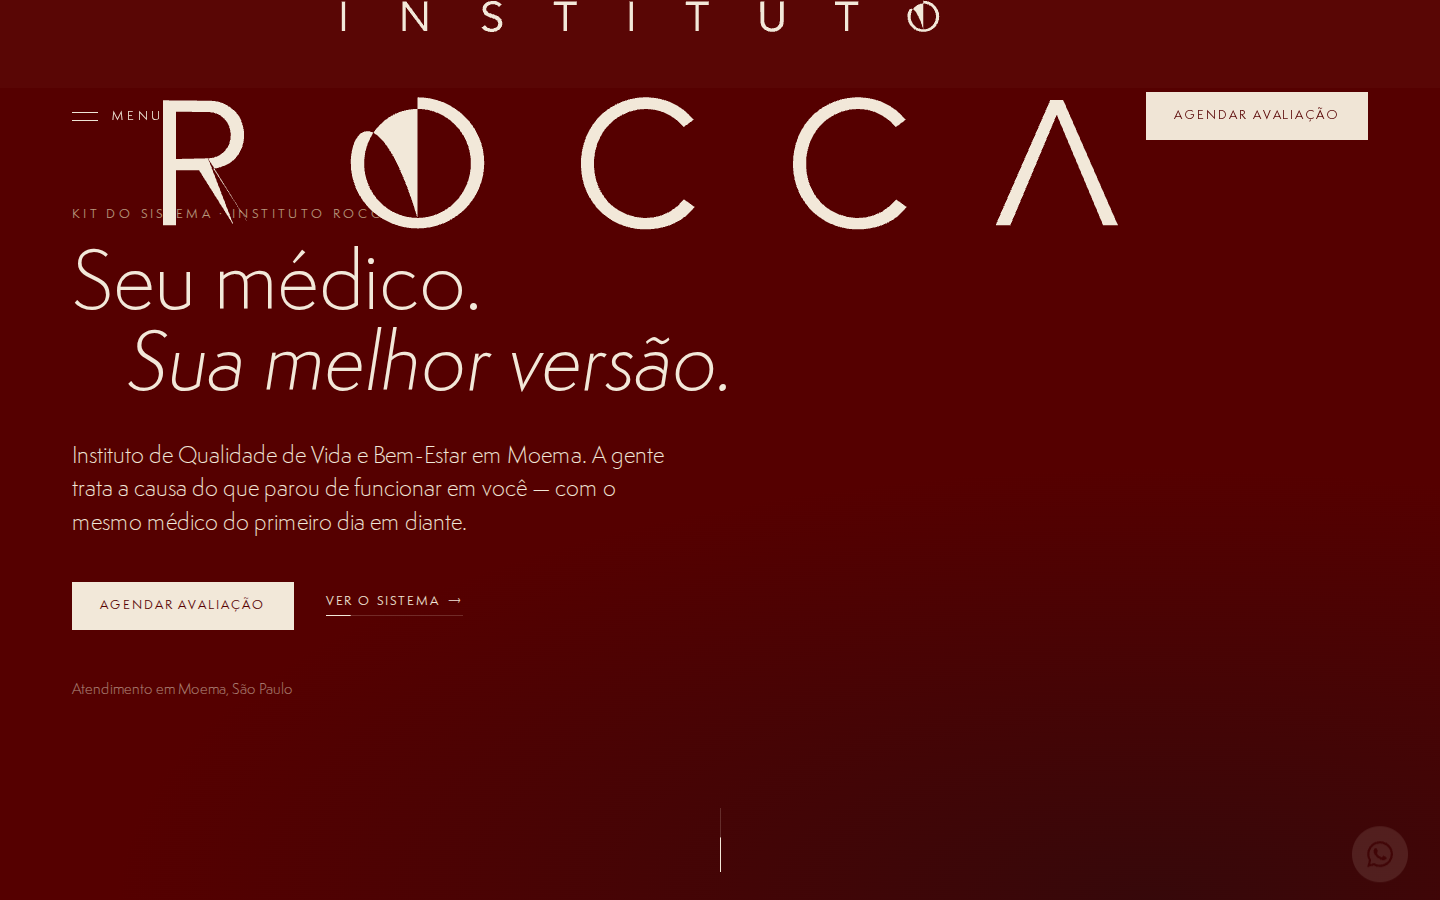
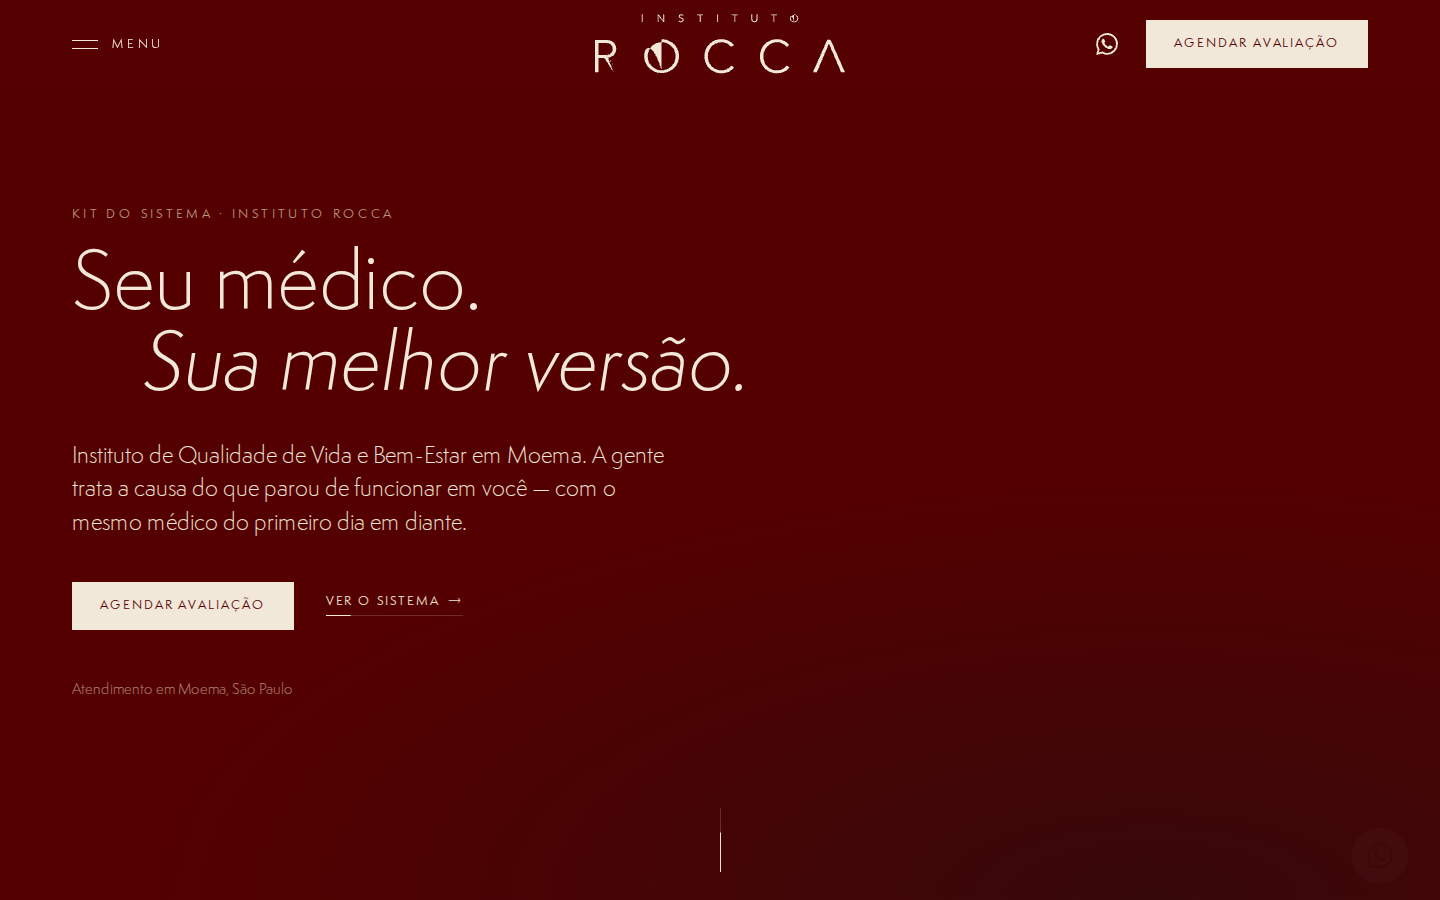
Fundação: nav com símbolo/wordmark consolidada, tokens com o estado da identidade oficial, kit alinhado
Claude-Session: https://claude.ai/code/session_01XdjUTf4CqwpAGPvLobMa3V

diff --git a/concepts/00-kit/index.html b/concepts/00-kit/index.html
@@ -9,7 +9,8 @@
   <link rel="stylesheet" href="../../brand/tokens.css">
   <link rel="stylesheet" href="../../shared/base.css">
   <link rel="stylesheet" href="./concept.css">
-  <link rel="icon" href="../../assets/img/monograma.svg" type="image/svg+xml">
+  <link rel="icon" href="../../assets/img/favicon.svg" type="image/svg+xml">
+  <meta name="theme-color" content="#550000">
   <script src="./app.js" defer></script>
 </head>
 <body class="sup-bordo">
@@ -30,7 +31,8 @@
     </button>
 
     <a class="nav__marca" href="#" aria-label="Instituto Rocca — início">
-        <img class="nav__simbolo" src="../../assets/img/simbolo.svg" alt="" width="28" height="28" aria-hidden="true">
+      <img class="nav__simbolo" src="../../assets/img/simbolo.svg" alt="" width="666" height="666" aria-hidden="true">
+      <img class="nav__simbolo nav__simbolo--escuro" src="../../assets/img/simbolo-bordo.svg" alt="" width="666" height="666" aria-hidden="true">
       <img class="nav__logo nav__logo--creme" src="../../assets/img/logo.svg" alt="Instituto Rocca" width="1686" height="410">
       <img class="nav__logo nav__logo--escuro" src="../../assets/img/logo-escuro.svg" alt="" aria-hidden="true" width="1686" height="410">
     </a>
@@ -112,19 +114,18 @@
         <header class="kit-cabeca" data-reveal>
           <p class="eyebrow"><span class="numeral">01</span> — Paleta</p>
           <h2 class="titulo-2l">Bordô sustenta. <span class="linha-2">A madeira entra pela imagem.</span></h2>
-          <p>Superfícies: <code class="kit-classe">.sup-bordo</code> <code class="kit-classe">.sup-osso</code> <code class="kit-classe">.sup-profundo</code>. Nem preto puro nem branco puro.</p>
+          <p>Paleta oficial do manual (Rocca 01–04) mais as cores de apoio. Superfícies: <code class="kit-classe">.sup-bordo</code> <code class="kit-classe">.sup-osso</code> <code class="kit-classe">.sup-profundo</code>. Nem preto puro nem branco puro.</p>
         </header>
         <ul class="kit-amostras" data-reveal-grupo>
-          <li class="amostra"><span class="amostra__cor" style="background:#550000"></span><span class="amostra__nome">--cor-bordo</span><span class="amostra__valor">#550000 · principal, hero, âncoras</span></li>
+          <li class="amostra"><span class="amostra__cor" style="background:#550000"></span><span class="amostra__nome">--cor-bordo</span><span class="amostra__valor">#550000 · Rocca 01 · principal, hero, âncoras</span></li>
           <li class="amostra"><span class="amostra__cor" style="background:#3B0000"></span><span class="amostra__nome">--cor-bordo-profundo</span><span class="amostra__valor">#3B0000 · footer, gradientes</span></li>
           <li class="amostra"><span class="amostra__cor" style="background:#6B1F1E"></span><span class="amostra__nome">--cor-bordo-claro</span><span class="amostra__valor">#6B1F1E · hover, linhas sobre bordô</span></li>
           <li class="amostra"><span class="amostra__cor amostra__cor--borda" style="background:#F2E8D9"></span><span class="amostra__nome">--cor-creme</span><span class="amostra__valor">#F2E8D9 · texto sobre bordô, logo</span></li>
           <li class="amostra"><span class="amostra__cor amostra__cor--borda" style="background:#EFE7DA"></span><span class="amostra__nome">--cor-osso</span><span class="amostra__valor">#EFE7DA · fundo das seções de respiro</span></li>
           <li class="amostra"><span class="amostra__cor" style="background:#2A1A16"></span><span class="amostra__nome">--cor-tinta</span><span class="amostra__valor">#2A1A16 · texto sobre osso</span></li>
-          <li class="amostra"><span class="amostra__cor" style="background:#B8997D"></span><span class="amostra__nome">--cor-madeira</span><span class="amostra__valor">#B8997D · numerais, rótulos, linhas</span></li>
-          <li class="amostra"><span class="amostra__cor" style="background:#4A3B26"></span><span class="amostra__nome">--cor-marmore</span><span class="amostra__valor">#4A3B26 · bordas sobre osso</span></li>
-          <li class="amostra"><span class="amostra__cor" style="background:#544D45"></span><span class="amostra__nome">--cor-grafite</span><span class="amostra__valor">#544D45 · texto secundário sobre osso</span></li>
-          <li class="amostra"><span class="amostra__cor" style="background:#4A3B26"></span><span class="amostra__nome">--cor-oliva</span><span class="amostra__valor">#4A3B26 · acento alternativo, tags</span></li>
+          <li class="amostra"><span class="amostra__cor" style="background:#B8997D"></span><span class="amostra__nome">--cor-areia (--cor-madeira)</span><span class="amostra__valor">#B8997D · Rocca 02 · numerais, rótulos, linhas</span></li>
+          <li class="amostra"><span class="amostra__cor" style="background:#4A3B26"></span><span class="amostra__nome">--cor-oliva-escuro (--cor-marmore)</span><span class="amostra__valor">#4A3B26 · Rocca 03 · bordas sobre osso, tags</span></li>
+          <li class="amostra"><span class="amostra__cor" style="background:#544D45"></span><span class="amostra__nome">--cor-cinza-quente (--cor-grafite)</span><span class="amostra__valor">#544D45 · Rocca 04 · texto secundário sobre osso</span></li>
           <li class="amostra"><span class="amostra__cor" style="background:rgba(242,232,217,.6);background-image:linear-gradient(rgba(242,232,217,.6),rgba(242,232,217,.6));background-color:#550000"></span><span class="amostra__nome">--cor-creme-60</span><span class="amostra__valor">creme 60% · secundário sobre bordô (≥ 16px)</span></li>
           <li class="amostra"><span class="amostra__cor" style="background:#25D366"></span><span class="amostra__nome">--cor-whatsapp</span><span class="amostra__valor">#25D366 · só no hover do flutuante</span></li>
         </ul>
@@ -137,12 +138,12 @@
         <header class="kit-cabeca" data-reveal>
           <p class="eyebrow"><span class="numeral">02</span> — Tipografia</p>
           <h2 class="titulo-2l">Uma fonte, peso leve, <span class="linha-2">sem serifa em lugar nenhum.</span></h2>
-          <p>Jost como substituta da Semplicita Pro. Um único token <code class="kit-classe">--fonte</code> troca tudo.</p>
+          <p>Semplicita Pro, a tipografia oficial, auto-hospedada em brand/fontes/ (300, 400, 500, 600 e itálicas). Um único token <code class="kit-classe">--fonte</code> troca tudo.</p>
         </header>
 
         <div class="kit-especime" data-reveal-grupo>
           <div class="kit-especime__linha">
-            <span class="kit-rotulo">H1 · 200/300 · <code class="kit-classe">h1.titulo-2l</code></span>
+            <span class="kit-rotulo">H1 · 300 · <code class="kit-classe">h1.titulo-2l</code></span>
             <p class="h1 titulo-2l">Seu médico. <span class="linha-2">Sua melhor versão.</span></p>
           </div>
           <div class="kit-especime__linha">

diff --git a/brand/tokens.css b/brand/tokens.css
@@ -4,27 +4,30 @@
    Fonte de verdade das cores, da fonte, da escala tipográfica, dos espaços,
    dos easings e das camadas (z-index). Todo CSS dos conceitos lê daqui.
 
-   COMO TROCAR PELA IDENTIDADE OFICIAL (quando o material chegar):
+   ESTADO: identidade oficial aplicada (Manual de Identidade v1.0, pág. 18 e 21).
+   - Paleta Rocca 01–04 nos tokens --cor-bordo, --cor-areia, --cor-oliva-escuro,
+     --cor-cinza-quente; os nomes antigos (--cor-madeira, --cor-marmore,
+     --cor-grafite, --cor-oliva) continuam valendo como aliases.
+   - Semplicita Pro auto-hospedada em brand/fontes/ (300/400/500/600 + itálicas)
+     pelos @font-face abaixo; Jost fica só como reserva na pilha de --fonte.
+     Não há peso 200: títulos usam 300 (Light). Nenhum HTML carrega Google Fonts.
 
-   1) Fonte — Semplicita Pro JÁ está auto-hospedada (brand/fontes/, @font-face abaixo); Jost fica só como reserva:
-      a) copie os arquivos da webfont para brand/fontes/ e declare aqui em cima:
-         @font-face { font-family: 'Semplicita Pro'; font-weight: 300; font-style: normal;
-                      src: url('fontes/SemplicitaPro-Light.woff2') format('woff2'); font-display: swap; }
-         (repita para 200/400/500 e para a itálica 300)
-      b) troque a ordem em --fonte: 'Semplicita Pro' primeiro, 'Jost' depois;
-      c) remova a <link> do Google Fonts do <head> de cada concepts/XX/index.html.
-      Nada mais muda: títulos, botões, rótulos e menu herdam de --fonte.
-
-   2) Paleta oficial — substitua só os valores de --cor-* abaixo. As superfícies
-      (.sup-bordo, .sup-osso, .sup-profundo) e os componentes leem das variáveis
-      derivadas (--bg, --fg, --fg-2, --acento, --linha, --rotulo, --botao-*),
-      então trocar as cores-base atualiza o site inteiro.
-
-   3) Logo e símbolo — troque assets/img/logo.svg (creme), logo-escuro.svg
-      (escuro) e monograma.svg mantendo os nomes; o HTML não muda.
+   COMO TROCAR:
+   1) Fonte — substitua os arquivos em brand/fontes/ mantendo os nomes, ou
+      edite os @font-face abaixo e a ordem em --fonte. Títulos, botões,
+      rótulos e menu herdam de --fonte; nada mais muda.
+   2) Cores — troque só os valores --cor-* em :root. As superfícies
+      (.sup-bordo, .sup-osso, .sup-profundo) e os componentes leem das
+      variáveis derivadas (--bg, --fg, --fg-2, --acento, --rotulo, --linha,
+      --botao-*), então trocar as cores-base atualiza o site inteiro.
+   3) Logo e símbolo — assets/img/logo.svg (creme), logo-escuro.svg (= logo-bordo.svg,
+      fundos claros), simbolo.svg / simbolo-bordo.svg e favicon.svg; trocar os
+      arquivos mantendo os nomes, o HTML não muda.
 
    Regras fixas: nunca #000 nem #FFF; nunca serifa; nunca border-radius > 0
-   (só o círculo do WhatsApp e o do play).
+   (só o círculo do WhatsApp e o do play); logo nunca em areia, nunca com
+   gradiente ou efeito; wordmark nunca abaixo de 250px de largura (abaixo
+   disso, símbolo).
    ============================================================================ */
 
 /* ---- Semplicita Pro (tipografia oficial, auto-hospedada em brand/fontes/) ---- */
@@ -50,7 +53,7 @@
   --cor-bordo:          #550000; /* Rocca 01 — Bordô (manual) */
   --cor-areia:          #B8997D; /* Rocca 02 — Areia (manual) */
   --cor-oliva-escuro:   #4A3B26; /* Rocca 03 — Oliva Escuro (manual) */
-  --cor-cinza-quente:   #544D45; /* Rocca 04 — Cinza Quente (manual) */ /* principal: hero, seções-âncora, botões sobre claro */
+  --cor-cinza-quente:   #544D45; /* Rocca 04 — Cinza Quente (manual) */
   --cor-bordo-profundo: #3B0000; /* gradientes do hero, footer, sombras de cor */
   --cor-bordo-claro:    #6E1212; /* hover, linhas sobre bordô, painel ripado */
   --cor-creme:          #F2E8D9; /* texto sobre bordô/escuro, botões sobre escuro, logo */
@@ -67,9 +70,9 @@
   --fonte: 'Semplicita Pro', 'Jost', 'Avenir Next', 'Helvetica Neue', Arial, sans-serif;
 
   /* ---- Escala tipográfica ------------------------------------------------ */
-  --h1:      clamp(2.6rem, 5.4vw, 5.8rem);               /* Jost 200/300, lh 1.04 */
-  --h2:      clamp(1.9rem, 3.4vw, 3.4rem);               /* Jost 300, lh 1.1 */
-  --h3:      clamp(1.25rem, 1.1rem + .7vw, 1.75rem);     /* Jost 300, lh 1.25 */
+  --h1:      clamp(2.6rem, 5.4vw, 5.8rem);               /* peso 300, lh 1.04 */
+  --h2:      clamp(1.9rem, 3.4vw, 3.4rem);               /* peso 300, lh 1.1 */
+  --h3:      clamp(1.25rem, 1.1rem + .7vw, 1.75rem);     /* peso 300, lh 1.25 */
   --corpo:   clamp(1rem, .94rem + .25vw, 1.125rem);      /* 16px mobile → 18px desktop */
   --eyebrow: clamp(.6875rem, .65rem + .15vw, .75rem);    /* 11–12px, caixa alta, tracking .28em */
   --medida:  62ch;                                       /* largura máxima de leitura */

diff --git a/shared/base.css b/shared/base.css
@@ -244,20 +244,22 @@ html.menu-aberto .nav { background: transparent; -webkit-backdrop-filter: none; 
 .nav__menu-txt { padding-top: .1em; }
 
 /* Marca: dois eixos independentes.
-   1) viewport: símbolo (.nav__simbolo) abaixo de 640px; wordmark (.nav__wordmark)
-      a partir de 640px, sempre com 250px de largura (mínimo digital do manual).
-   2) tema: .nav__logo--creme por padrão; .nav__logo--escuro (bordô) sobre seção clara. */
-.nav__marca { justify-self: center; display: block; line-height: 0; }
-.nav__wordmark { display: none; }
-.nav__simbolo { display: block; }
-.nav__simbolo .nav__logo { height: 34px; width: auto; }
-.nav__wordmark .nav__logo { width: 250px; height: auto; }
-.nav__logo--escuro { display: none; }
-html[data-tema="claro"]:not(.menu-aberto) .nav__logo--creme { display: none; }
-html[data-tema="claro"]:not(.menu-aberto) .nav__logo--escuro { display: block; }
+   1) viewport: wordmark (.nav__logo, sempre 250px — mínimo digital do manual)
+      a partir de 640px; abaixo disso o símbolo oficial (.nav__simbolo).
+   2) tema: versão creme por padrão; versão bordô (--escuro) sobre seção clara. */
+.nav__marca { justify-self: center; display: flex; align-items: center; line-height: 0; }
+.nav__logo, .nav__simbolo { display: none; }
 @media (min-width: 640px) {
-  .nav__wordmark { display: block; }
-  .nav__simbolo { display: none; }
+  .nav__logo { width: 250px; height: auto; }
+  .nav__logo--creme { display: block; }
+  html[data-tema="claro"]:not(.menu-aberto) .nav__logo--creme { display: none; }
+  html[data-tema="claro"]:not(.menu-aberto) .nav__logo--escuro { display: block; }
+}
+@media (max-width: 639.98px) {
+  .nav__simbolo { display: block; height: 32px; width: auto; }
+  .nav__simbolo--escuro { display: none; }
+  html[data-tema="claro"]:not(.menu-aberto) .nav__simbolo { display: none; }
+  html[data-tema="claro"]:not(.menu-aberto) .nav__simbolo--escuro { display: block; }
 }
 
 .nav__acoes { justify-self: end; display: flex; align-items: center; gap: 28px; }
@@ -738,9 +740,3 @@ html.js [data-split-linhas].split-pronto { opacity: 1; }
 }
 
 
-/* ---- Marca na nav: wordmark no desktop, símbolo no mobile (manual: wordmark nunca abaixo de 250 px) ---- */
-.nav__simbolo { display: none; height: 28px; width: auto; }
-@media (max-width: 640px) {
-  .nav__marca img:not(.nav__simbolo) { display: none; }
-  .nav__simbolo { display: block; }
-}

diff --git a/shared/partials.html b/shared/partials.html
@@ -22,6 +22,9 @@
     <link rel="stylesheet" href="../../brand/tokens.css">
     <link rel="stylesheet" href="../../shared/base.css">
     <link rel="stylesheet" href="./concept.css">
+    <link rel="icon" href="../../assets/img/favicon.svg" type="image/svg+xml">
+    <meta name="theme-color" content="#550000">
+    <script src="./app.js" defer></script>
   ============================================================================
 -->
 
@@ -39,9 +42,11 @@
 <!-- ===== 2. NAV (padrão CLP: MENU | marca | WhatsApp + botão) =====
      - ui.js adiciona .nav--solida ao rolar > 40px.
      - html[data-tema="claro"] (seção com data-tema="claro" sob a nav) troca
-       o logo creme pelo escuro e o botão para bordô. Os dois <img> ficam no
+       o logo creme pelo bordô e o botão para bordô. Os <img> ficam todos no
        HTML; o CSS alterna.
-     - No mobile o botão "Agendar avaliação" some (fica MENU + logo + WhatsApp). -->
+     - Marca: wordmark de 250px (mínimo digital do manual) a partir de 640px;
+       abaixo disso, o símbolo oficial (creme / bordô conforme o tema).
+     - No mobile o botão "Agendar avaliação" some (fica MENU + símbolo + WhatsApp). -->
 <header class="nav" id="topo">
   <button class="nav__menu" type="button" aria-expanded="false" aria-controls="menu">
     <span class="nav__menu-linhas" aria-hidden="true"></span>
@@ -49,7 +54,8 @@
   </button>
 
   <a class="nav__marca" href="#" aria-label="Instituto Rocca — início">
-        <img class="nav__simbolo" src="../../assets/img/simbolo.svg" alt="" width="28" height="28" aria-hidden="true">
+    <img class="nav__simbolo" src="../../assets/img/simbolo.svg" alt="" width="666" height="666" aria-hidden="true">
+    <img class="nav__simbolo nav__simbolo--escuro" src="../../assets/img/simbolo-bordo.svg" alt="" width="666" height="666" aria-hidden="true">
     <img class="nav__logo nav__logo--creme" src="../../assets/img/logo.svg" alt="Instituto Rocca" width="1686" height="410">
     <img class="nav__logo nav__logo--escuro" src="../../assets/img/logo-escuro.svg" alt="" aria-hidden="true" width="1686" height="410">
   </a>

diff --git a/concepts/00-kit/concept.css b/concepts/00-kit/concept.css
@@ -18,7 +18,7 @@
 .hero__nota { margin-top: 3rem; font-size: .875rem; }
 .hero .acoes { margin-top: 2.6rem; }
 @media (min-width: 900px) {
-  .hero .titulo-2l { max-width: 14ch; }
+  .hero .titulo-2l { max-width: 18ch; }
 }
 
 /* Cabeça de cada bloco do kit */

diff --git a/brand/SISTEMA.md b/brand/SISTEMA.md
@@ -123,7 +123,7 @@ node scripts/lexico.mjs                       # varre concepts/**/index.html e C
 `shot.mjs` abre o HTML via `file://` em 1440×900, 768×1024 e 390×844, rola a página inteira (dispara reveals e
 lazy), volta ao topo, salva `<prefixo>-<viewport>.png` (e `-full.png` com `--full`, com todos os reveals
 forçados) e imprime um JSON com erros de console, `pageerror`, requests falhas, overflow horizontal, tamanho do
-`app.js` e fontes carregadas (`principal` deve ser `Semplicita Pro` com `principalCarregada: true`). Sai com 1
+`app.js` e fontes carregadas (`semplicitaCarregada` deve ser `true` e `familiaDoH1` = `"Semplicita Pro"`). Sai com 1
 se houver `pageerror`. `lexico.mjs` sai com 1 se encontrar termo vetado ou "!" fora de um elemento com
 `data-lexico-ok` (HTML) ou linha `[lexico-ok]` (md). A única exceção sancionada é "Você sai entendendo o próprio
 resultado" — marque esse `<p>` com `data-lexico-ok`.
